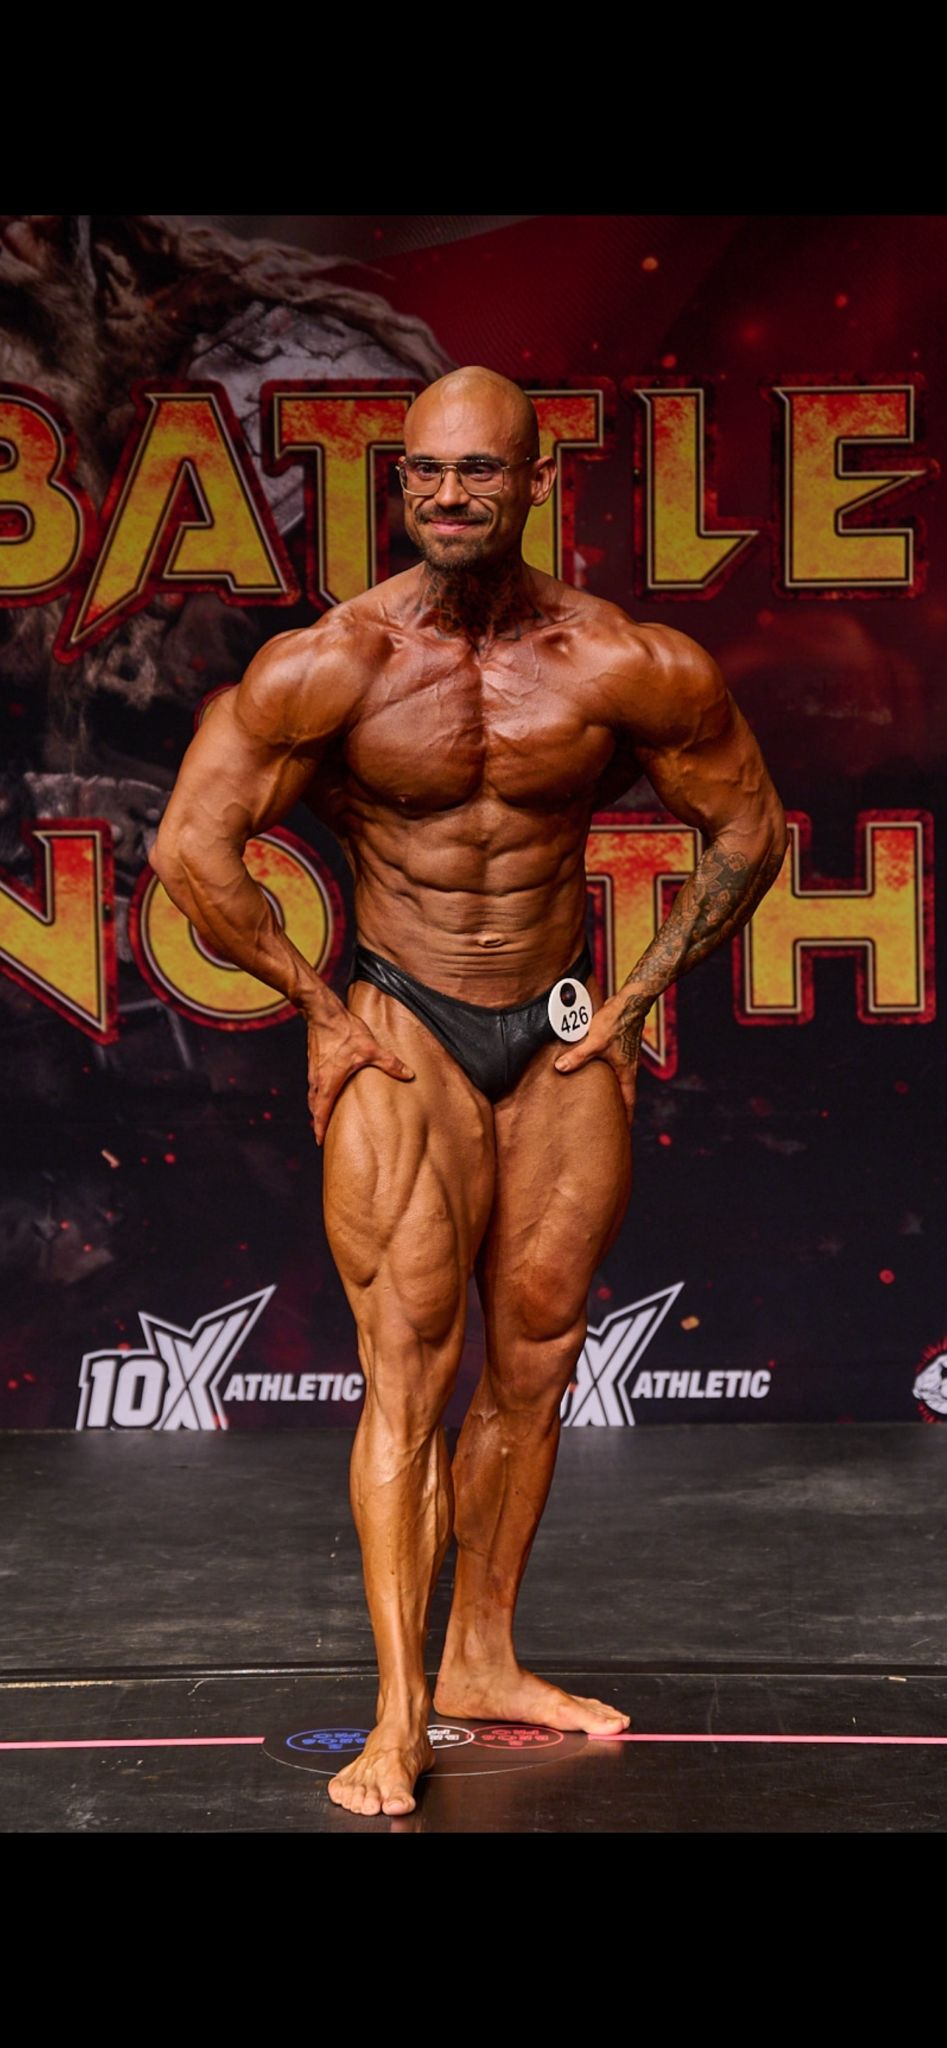
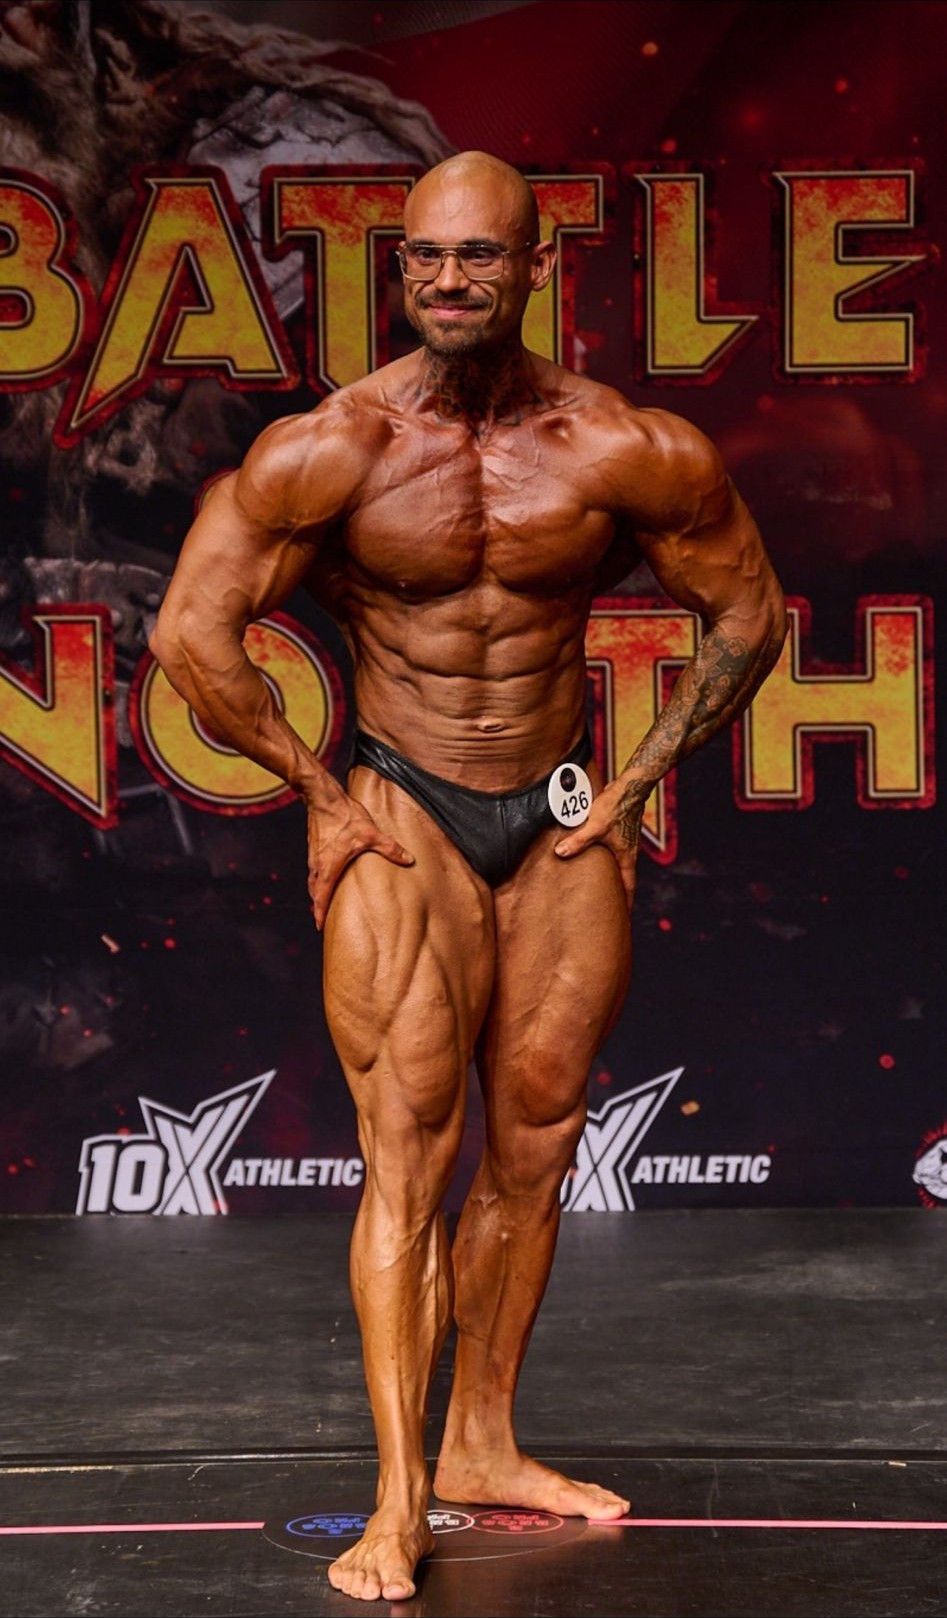
fix: crop black bars from founder photo + hero title 'Diventa chi sei'

diff --git a/src/components/Hero.tsx b/src/components/Hero.tsx
@@ -15,7 +15,7 @@ export function Hero() {
       <span className="landing-hero-kicker">Palestra · Dal 2024</span>
 
       <h1 className="landing-hero-title">
-        Allenati <span>senza</span> complicazioni.
+        Diventa <span>chi</span> sei.
       </h1>
 
       <p className="landing-hero-sub">
